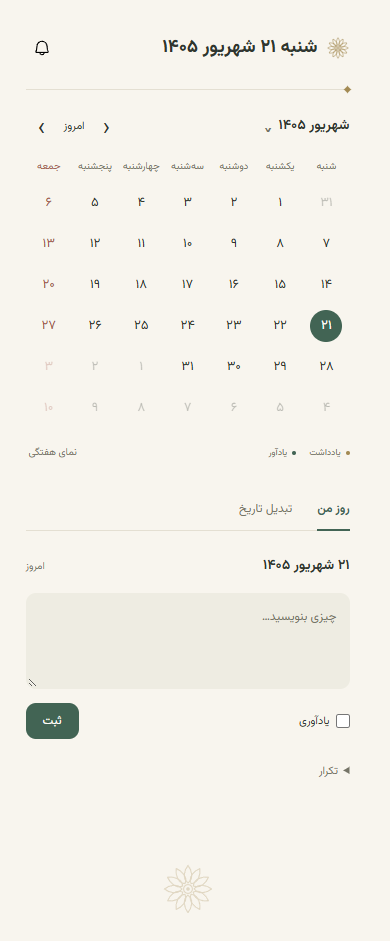
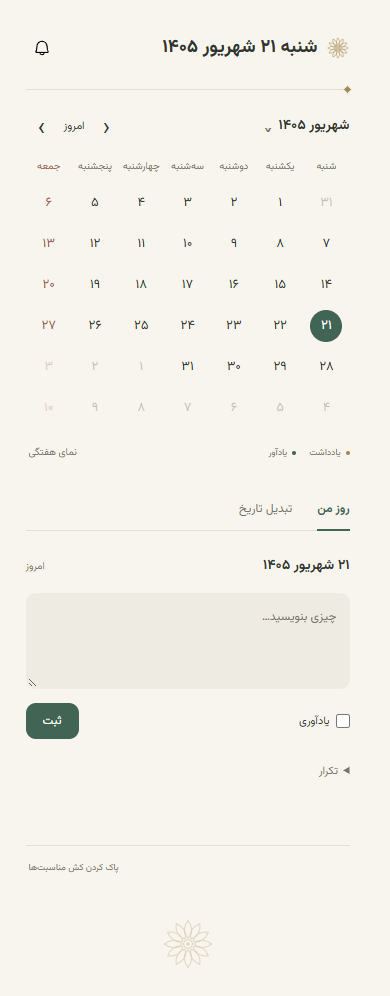
Move daily events above tabs and relocate cache control

diff --git a/sidepanel.html b/sidepanel.html
@@ -4,10 +4,10 @@
 <body><main>
   <div id="home-screen">
   <header class="today-header" aria-label="تاریخ امروز"><h1><img class="date-rosette" src="assets/rosette.svg" width="24" height="24" alt="" aria-hidden="true"><span class="date-heading"><span id="today-weekday"></span> <span id="today-date"></span></span></h1><button id="open-alerts" class="icon-button" aria-label="نمایش همه یادآورها"><img src="assets/bell.svg" width="18" height="18" alt=""><span id="alert-count" class="badge" hidden></span></button></header>
-  <section class="calendar-section" aria-label="تقویم"><div class="section-heading"><h2><button id="month-title" type="button" aria-expanded="false" aria-controls="month-picker" title="انتخاب ماه و سال"></button></h2><div class="navigation"><button id="prev" class="icon-button" aria-label="ماه قبل">‹</button><button id="today" class="text-button">امروز</button><button id="next" class="icon-button" aria-label="ماه بعد">›</button></div></div><div id="month-picker" class="month-picker" hidden><label for="jump-year">سال</label><select id="jump-year"></select><div id="jump-months" class="month-grid" aria-label="انتخاب ماه"></div></div><div class="weekdays" aria-hidden="true"><span>ش</span><span>ی</span><span>د</span><span>س</span><span>چ</span><span>پ</span><span>ج</span></div><div id="calendar" class="calendar" aria-label="روزهای ماه"></div><div class="legend"><span><i class="note-dot"></i>یادداشت</span><span><i class="reminder-dot"></i>یادآور</span><button id="week-toggle" class="text-button">نمای هفتگی</button><button id="clear-events" class="text-button">پاک کردن کش مناسبتها</button></div></section>
-  <nav class="tabs" aria-label="ابزارها"><button class="active" data-tab="day" aria-current="page">روز من</button><button data-tab="convert">تبدیل تاریخ</button></nav>
+  <section class="calendar-section" aria-label="تقویم"><div class="section-heading"><h2><button id="month-title" type="button" aria-expanded="false" aria-controls="month-picker" title="انتخاب ماه و سال"></button></h2><div class="navigation"><button id="prev" class="icon-button" aria-label="ماه قبل">‹</button><button id="today" class="text-button">امروز</button><button id="next" class="icon-button" aria-label="ماه بعد">›</button></div></div><div id="month-picker" class="month-picker" hidden><label for="jump-year">سال</label><select id="jump-year"></select><div id="jump-months" class="month-grid" aria-label="انتخاب ماه"></div></div><div class="weekdays" aria-hidden="true"><span>ش</span><span>ی</span><span>د</span><span>س</span><span>چ</span><span>پ</span><span>ج</span></div><div id="calendar" class="calendar" aria-label="روزهای ماه"></div><div class="legend"><span><i class="note-dot"></i>یادداشت</span><span><i class="reminder-dot"></i>یادآور</span><button id="week-toggle" class="text-button">نمای هفتگی</button></div></section>
+  <div id="day-events" aria-live="polite"></div><nav class="tabs" aria-label="ابزارها"><button class="active" data-tab="day" aria-current="page">روز من</button><button data-tab="convert">تبدیل تاریخ</button></nav>
   <section id="day-panel" class="panel"><div class="section-heading"><h2 id="selected-title"></h2><span class="small" id="selected-relative"></span></div><form id="note-form"><label class="sr-only" for="note">یادداشت</label><textarea id="note" rows="3" maxlength="10000" placeholder="چیزی بنویسید…"></textarea><div class="composer-tools"><label class="remind-switch"><input id="remind-toggle" type="checkbox"><span>یادآوری</span></label><div id="reminder-time-row" hidden><div class="time-24" dir="ltr"><select id="reminder-hour" aria-label="ساعت یادآوری، ۲۴ ساعته"></select><span aria-hidden="true">:</span><select id="reminder-minute" aria-label="دقیقه یادآوری"></select></div><input id="reminder-time" type="hidden" value="09:00"></div><button id="cancel-note" type="button" class="text-button" hidden>انصراف</button><button class="primary" type="submit">ثبت</button></div><details id="repeat-options"><summary>تکرار</summary><label for="repeat-mode">تکرار</label><select id="repeat-mode"><option value="none">فقط همین روز</option><option value="daily">هر روز · روزهای پشتسرهم</option><option value="weekly">روزهای مشخص هفته</option></select><div id="repeat-days" hidden></div><div id="repeat-end-row" hidden><label for="repeat-end">پایان</label><select id="repeat-end"><option value="30">پس از ۳۰ روز</option><option value="7">پس از ۷ روز</option><option value="90">پس از ۹۰ روز</option><option value="custom">تعداد روز دلخواه</option><option value="forever">بدون پایان</option></select><input id="repeat-duration" type="number" min="1" max="36500" value="30" aria-label="تعداد روز از شروع" hidden><p class="small">از روز انتخابشده؛ شامل روز شروع</p></div><p id="repeat-edit-hint" class="small" hidden></p></details><span class="small" id="note-status" role="status"></span></form><div id="day-notes" aria-live="polite"></div></section>
-  <section id="convert-panel" class="panel" hidden><h2>یک تاریخ، دو تقویم</h2><form id="convert-form"><label for="calendar-type">تبدیل از</label><select id="calendar-type"><option value="persian">شمسی به میلادی</option><option value="gregorian">میلادی به شمسی</option></select><div class="date-selectors"><div><label for="convert-year">سال</label><select id="convert-year" required></select></div><div><label for="convert-month">ماه</label><select id="convert-month" required></select></div><div><label for="convert-day">روز</label><select id="convert-day" required></select></div></div><button class="primary" type="submit">تبدیل تاریخ</button></form><output id="convert-result" aria-live="polite"></output><button id="go-converted" class="text-button accent" hidden>رفتن به این روز در تقویم ←</button></section>
+  <section id="convert-panel" class="panel" hidden><h2>یک تاریخ، دو تقویم</h2><form id="convert-form"><label for="calendar-type">تبدیل از</label><select id="calendar-type"><option value="persian">شمسی به میلادی</option><option value="gregorian">میلادی به شمسی</option></select><div class="date-selectors"><div><label for="convert-year">سال</label><select id="convert-year" required></select></div><div><label for="convert-month">ماه</label><select id="convert-month" required></select></div><div><label for="convert-day">روز</label><select id="convert-day" required></select></div></div><button class="primary" type="submit">تبدیل تاریخ</button></form><output id="convert-result" aria-live="polite"></output><button id="go-converted" class="text-button accent" hidden>رفتن به این روز در تقویم ←</button></section><div class="cache-actions"><button id="clear-events" class="text-button">پاک کردن کش مناسبتها</button></div>
   </div>
   <section id="alerts-panel" aria-label="اعلانها" hidden><header class="alerts-header"><button id="back-home" type="button" aria-label="بازگشت به صفحه اصلی">› <span>بازگشت</span></button><h1>اعلانها</h1></header><div class="reminder-filters" role="tablist" aria-label="یادآورها"><button id="due-tab" type="button" role="tab" aria-controls="all-reminders" data-reminder-filter="due" aria-selected="true">موعدرسیده</button><button id="upcoming-tab" type="button" role="tab" aria-controls="all-reminders" data-reminder-filter="upcoming" aria-selected="false" tabindex="-1">پیشرو<span id="upcoming-count"></span></button></div><div id="all-reminders" role="tabpanel" aria-labelledby="due-tab"></div></section>
   <dialog id="series-scope"><form method="dialog"><h2 id="scope-title">تغییر تکرار</h2><button value="one" class="primary">فقط این روز</button><button value="all" class="text-button">همهٔ تکرارها</button><button value="cancel" class="text-button">انصراف</button></form></dialog><div id="message" role="status" aria-live="polite" hidden></div>

diff --git a/app.js b/app.js
@@ -99,7 +99,7 @@ function renderCalendar(){
   $('prev').disabled=view.year===1200&&view.month===1;$('next').disabled=view.year===1600&&view.month===12;
 }
 function selectDay(date,navigate=true){if(parts(date).year<1200||parts(date).year>1600)return;if(draftDirty)drafts.set(dayKey(selected),{text:$('note').value,key:editingNote,remind:$('remind-toggle').checked,time:$('reminder-time').value,repeat:repeatDraft(),series:editingSeries,scope:editScope});selected=date;view=parts(date);const draft=drafts.get(dayKey(selected));draftDirty=!!draft;editingNote=draft?.key??null;editingSeries=draft?.series??null;editScope=draft?.scope??null;resetRepeat();if(editingSeries&&data[`series:${editingSeries}`])loadRepeat(data[`series:${editingSeries}`],editScope);if(draft?.repeat)restoreRepeat(draft.repeat);$('note').value=draft?.text??'';$('remind-toggle').checked=draft?.remind??false;$('reminder-time').value=draft?.time||'09:00';updateComposer();$('note-status').textContent=draftDirty?'تغییرات ذخیره نشده':'';renderCalendar();renderDay();if(navigate)showTab('day');}
-function renderDay(){const e=eventsData[dayKey(selected)];$('selected-title').textContent=fullDate(selected);$('selected-relative').textContent=dayKey(selected)===dayKey(new Date())?'امروز':weekdays[weekIndex(selected)];renderNotes();let old=$('event-line');if(old)old.remove();if(e?.events?.length||e?.holiday){const line=document.createElement('p');line.id='event-line';line.className='small event-line';line.textContent=`${e.holiday?'تعطیل · ':''}${(e.events||[]).join(' · ')}`;$('day-panel').prepend(line);}}
+function renderDay(){const e=eventsData[dayKey(selected)];$('selected-title').textContent=fullDate(selected);$('selected-relative').textContent=dayKey(selected)===dayKey(new Date())?'امروز':weekdays[weekIndex(selected)];renderNotes();const line=$('day-events');line.replaceChildren();if(e?.events?.length||e?.holiday){line.className='event-line';line.textContent=`${e.holiday?'تعطیل · ':''}${(e.events||[]).join(' · ')}`;}else line.className='event-line empty-events';}
 function renderReminders(container,items,all){
   container.replaceChildren();if(!items.length){const p=document.createElement('p');p.className='empty';p.textContent=all?'هنوز یادآوری ندارید.':'برای این روز یادآوری ثبت نشده.';container.append(p);return;}
   for(const r of items){const row=document.createElement('div');row.className=`reminder${r.firedAt?' done':''}`;const time=document.createElement('time');time.textContent=fa(r.time);const content=document.createElement('div');content.className='content';const title=document.createElement('strong');title.textContent=r.title;const detail=document.createElement('small');detail.textContent=`${all?fullDate(fromKey(r.date))+' · ':''}${r.expiredOnRestore?'گذشته · بازیابیشده':r.firedAt?'اعلان ارسال شد':r.when<Date.now()?'در انتظار ارسال':'در انتظار یادآوری'}`;content.append(title,detail);const created=creationLabel(r.createdAt);if(created)content.append(created);const del=document.createElement('button');del.className='delete';del.textContent='×';del.setAttribute('aria-label',`حذف یادآور ${r.title}`);del.addEventListener('click',async()=>{try{if(r.seriesId){const scope=await chooseScope('حذف تکرار');if(!scope)return;await request({type:'delete-series',seriesId:r.seriesId,date:r.date,scope});}else await request({type:'delete',id:r.id});await refresh();notify('یادآور حذف شد.');}catch(e){notify(e.message);}});row.append(time,content,del);container.append(row);}

diff --git a/styles.css b/styles.css
@@ -99,3 +99,9 @@ select,input:not([type=checkbox]):not([type=hidden]){min-height:var(--control-he
 @media(max-width:320px){.weekdays span{font-size:9px;letter-spacing:-.15px}}
 .event-line{margin-top:-14px;margin-bottom:15px;padding:9px 11px;border-inline-start:2px solid var(--gold);background:#f0ede3;border-radius:6px;font-size:10px;line-height:1.9}
 #clear-events{margin-inline-start:auto}
+# Events sit in a stable slot before tabs; cache action is quiet at the bottom.
+#day-events{min-height:0;margin:0}
+.event-line{margin:0 0 12px;padding:9px 11px;border-inline-start:2px solid var(--gold);background:#f0ede3;border-radius:6px;font-size:10px;line-height:1.9}
+.event-line.empty-events{display:none}
+.cache-actions{display:flex;justify-content:flex-end;border-top:1px solid var(--line);padding:8px 0 18px}
+#clear-events{font-size:9px;color:var(--muted)}
